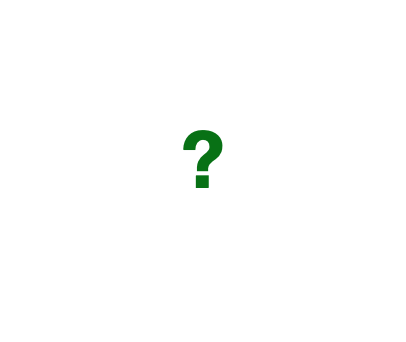
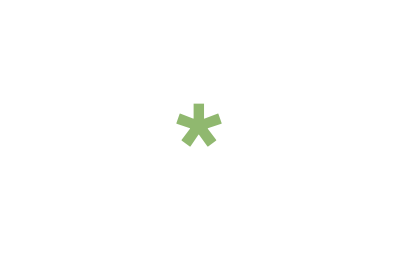
Fixed practice loop. Replaced the question mark with star.

Changed region(s): [[0.4138, 0.3636, 0.5616, 0.5758]]

diff --git a/NewBaseline.html b/NewBaseline.html
@@ -117,23 +117,31 @@
       "<div style = 'width: 700px;'>" +
       "</div>" +
       "<p>Before each trial starts, you will see a '+' sign in the center of the screen.</p>" +
-      "<p>Please focus on the '+' only when it appears.</p>" +
+      "<p>Please focus on the '+' when it appears.</p>" +
       "<div style = 'width: 700px;'>" +
       "</div>" +
-      '<p>First, on the left side of the screen, you will see two sets of <span style="color:green">green</span> dots appear briefly one at a time.</p>'+
-      '<p>on the <strong>lower</strong> then on the <strong>upper</strong> part of the screen. </p>'+
-      '<p>Then, you will see a <span style="color:green">question mark</span> on the left side and a set of <span style="color:orange">orange</span> dots on the right side of the screen.</p>'+
+      '<p>In this task, you will compare a set of <strong><span style="color:green">green</span></strong> dots with a set of <strong><span style="color:orange">orange</span></strong> dots to determine which has more dots.</p>'+
+      '<p>The sets will appear briefly, so you will not have time to count them.</p>'+
+      '<p>Instead, you should give your best guess about which set is more.</p>'+
       "<div style = 'width: 700px;'>" +
       "</div>" +
-      "<p>You need to determine which side has more dots.</p>" +
-      "<p>You will only compare <strong>one</strong> set of green dots to the orange dots, and the <strong>location of the question mark</strong> indicates </p>"+
-      "<p>which set of green dots you will compare with.</p>"+
+      "<p>On each trial, you will first see two sets of green dots appear briefly on the left, one at a time.</p>" +
+      "<p>One of the sets of green dots will appear at the top of the screen, and one at the bottom.</p>"+
+      "<div style = 'width: 700px;'>" +
+      "</div>" +
+      "<p>After the green dots disappear, a star will appear either on the top left or bottom left of the screen. </p>"+
+      "<p>Then, a set of orange dots will appear briefly on the right side of the screen.</p>"+
+      "<p>Your task is to <strong>compare the set of green dots indicated by the star</strong> (the set that appeared at the top left </p>"+
+      "<p>or the set that appeared at the bottom left) <strong>to the set of orange dots</strong>.</p>"+
+      "<div style = 'width: 700px;'>" +
+      "</div>" +
       '<p>If you think there are more <span style="color:green">green</span> dots, press the letter <strong>F</strong> on the keyboard.</p>' +
       '<p>If you think there are more <span style="color:orange">orange</span> dots, press the letter <strong>J</strong>.</p>' +
       "<div style = 'width: 700px;'>" +
       "</div>" +
-      '<p>Please respond as quickly and as accurately as you can. You should not try to count the dots. </p>' +
-      '<p>Rather, just <strong>estimate</strong> as best as you can.</p>' +
+      '<p>Note the green and orange dots will only appear <strong>briefly</strong>, be sure to pay attention when the dots appear on the screen.</p>' +
+      '<p>Please respond as quickly and as accurately as you can. You should not try to count the dots.</p>' +
+      '<p>Rather, just estimate as best as you can.</p>'+
       "<div style = 'width: 700px;'>" +
       "</div>" +
       '<p>Once you press a key, you will automatically proceed to the next trial.</p>' +
@@ -211,8 +219,8 @@
     var Predebrief_block = {
       type: "html-keyboard-response",
       stimulus: function() {
-        debugger;
-        var trials = jsPsych.data.get().filter({test_part: 'test'}).last();
+        // The reason to get last 4 trials was because there are 4 testing trials in practice round
+        var trials = jsPsych.data.get().filter({test_part: 'test'}).last(4);
         var correct_trials = trials.filter({correct: true});
         var accuracy = Math.round(correct_trials.count() / trials.count() * 100);
         var rt = Math.round(correct_trials.select('rt').mean());
@@ -229,10 +237,11 @@
     var loop_node = {
         timeline: preTestCollection,
         loop_function: function(data){
-        if(jsPsych.pluginAPI.convertKeyCharacterToKeyCode('r') == data.values()[2].key_press){
-          return true;
-        } else {
-          return false;
+          // debugger;
+          if(jsPsych.pluginAPI.convertKeyCharacterToKeyCode('r') == data.values()[data.values().length - 1].key_press){
+            return true;
+          } else {
+            return false;
           }
         }
       };
@@ -241,7 +250,7 @@
     var intro = {
         type: 'html-keyboard-response',
         stimulus: '<p>OK, now we are going to start!</p>' +
-        '<p>Again, if you think there are more <strong><span style="color:green">green</span></strong> dots <strong>on the location of question mark</strong>, press the letter <strong>F</strong> as fast as you can.</p>' +
+        '<p>Again, if you think there are more <strong><span style="color:green">green</span></strong> dots <strong>at the location of the star</strong>, press the letter <strong>F</strong> as fast as you can.</p>' +
         '<p>If you think there are more <strong><span style="color:orange">orange</span></strong> dots, press the letter <strong>J</strong> as fast as you can.</p>' +
         '<p>Once you respond, the next trial will start automatically, so be sure to pay close attention.</p>' +
         "<div style = 'width: 700px;'>" +
